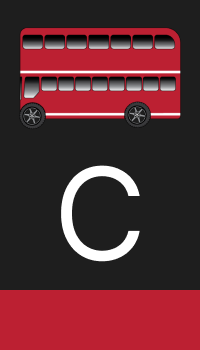
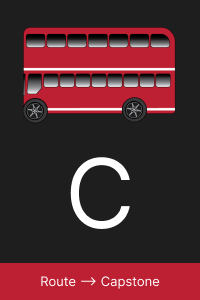
added card images for sunny

diff --git a/index.html b/index.html
@@ -19,23 +19,23 @@
         <header>
 
             <div class="wrap"><div class="move">
-                <div class="text">Elizabeth Hernandez Galvan &nbsp; &nbsp; &nbsp; &nbsp; &nbsp; &nbsp; &nbsp; &nbsp; &nbsp; &nbsp; &nbsp; &nbsp; DES 157B - Interactive Media III - Spring 2023</div>
-                <div class="text">Elizabeth Hernandez Galvan &nbsp; &nbsp; &nbsp; &nbsp; &nbsp; &nbsp; &nbsp; &nbsp; &nbsp; &nbsp; &nbsp; &nbsp; DES 157B - Interactive Media III - Spring 2023</div>
-                <div class="text">Elizabeth Hernandez Galvan &nbsp; &nbsp; &nbsp; &nbsp; &nbsp; &nbsp; &nbsp; &nbsp; &nbsp; &nbsp; &nbsp; &nbsp; DES 157B - Interactive Media III - Spring 2023</div>
-                <div class="text">Elizabeth Hernandez Galvan &nbsp; &nbsp; &nbsp; &nbsp; &nbsp; &nbsp; &nbsp; &nbsp; &nbsp; &nbsp; &nbsp; &nbsp; DES 157B - Interactive Media III - Spring 2023</div>
+                <div id="t1" class="text">Elizabeth Hernandez Galvan &nbsp; &nbsp; &nbsp; &nbsp; &nbsp; &nbsp; &nbsp; &nbsp; &nbsp; &nbsp; &nbsp; &nbsp; DES 157B - Interactive Media III - Spring 2023</div>
+                <div id="t2" class="text">Elizabeth Hernandez Galvan &nbsp; &nbsp; &nbsp; &nbsp; &nbsp; &nbsp; &nbsp; &nbsp; &nbsp; &nbsp; &nbsp; &nbsp; DES 157B - Interactive Media III - Spring 2023</div>
+                <div id="t3" class="text">Elizabeth Hernandez Galvan &nbsp; &nbsp; &nbsp; &nbsp; &nbsp; &nbsp; &nbsp; &nbsp; &nbsp; &nbsp; &nbsp; &nbsp; DES 157B - Interactive Media III - Spring 2023</div>
+                <div id="t4" class="text">Elizabeth Hernandez Galvan &nbsp; &nbsp; &nbsp; &nbsp; &nbsp; &nbsp; &nbsp; &nbsp; &nbsp; &nbsp; &nbsp; &nbsp; DES 157B - Interactive Media III - Spring 2023</div>
             </div></div>
 
             <!--this is for the interactive banner-->
             <div id="banner">
                 <!-- <h3>This is my banner!</h3> -->
                 <div class="rain"></div>
-                <div class="sunny">
+                <!-- <div class="sunny">
                     <div class="container">
                       <div class="sky"></div>
                       <div class="light"></div></div>
                       <div class="sun"></div>
                     </div>
-                <div>
+                <div> -->
             </div>
 
         </header>

diff --git a/script.js b/script.js
@@ -3,11 +3,12 @@
 
     const button = document.querySelector('button');
     const body = document.querySelector('body');
-    // const heading = document.querySelectorAll('h3');
     const banner = document.querySelector('#banner');
+    const t1 = document.getElementById("t1");
+    const t2 = document.getElementById("t2");
+    const t3 = document.getElementById("t3");
+    const t4 = document.getElementById("t4");
     const rain = document.querySelector('.rain');
-    const sun = document.querySelector('.sunny');
-    // const text = document.querySelectorAll('.text');
     const sections = document.querySelectorAll('section');
     let mode = 'winter';
 
@@ -16,9 +17,11 @@
             body.className = 'switch';
             banner.className = 'switch';
             button.className = 'switch';
-            // rain.classList.replace('rain' , 'sunny');
-            // banner.removeAttribute('sunny');
-            // sun.classList.replace('sunny' , 'rain');
+            t1.style.color = "black";
+            t2.style.color = "black";
+            t3.style.color = "black";
+            t4.style.color = "black";
+            rain.classList.replace('rain' , 'sunny');
             // heading.className = 'switch';
             for (const section of sections) {
                 section.className = 'switch';
@@ -28,9 +31,7 @@
             body.removeAttribute('class');
             banner.removeAttribute('class');
             button.removeAttribute('class');
-            // sun.classList.replace('rain' , 'sunny');
-            // banner.removeAttribute('rain');
-            // sun.classList.replace('sunny' , 'rain');
+            rain.classList.replace('sunny' , 'rain');
             for (const section of sections) {
                 section.removeAttribute('class');
             }

diff --git a/styles.css b/styles.css
@@ -37,12 +37,12 @@
 
 body {
     background-color: darkred;
-    color: rgb(235, 235, 235);
+    color: rgb(248, 224, 0);
     transition: all 2s;
 }
 
 body.switch {
-    background-color: rgb(126, 176, 245);
+    background-color: lightgoldenrodyellow;
     color: #333;
 }
 
@@ -80,7 +80,7 @@ header {
 }
 
 /*Sun Banner*/
- .sunny {
+ /* .sunny {
     background: lightblue;
     width: 1100px;
     height: 250px;
@@ -153,7 +153,18 @@ header {
       opacity: .2
     }
     ;
-  }
+  } */
+
+.sunny {
+    position: relative;
+    width: 1100px;
+    height: 250px;
+    background: url(images/sunBanner.gif);
+    background-repeat: no-repeat;
+    background-size: cover;
+    background-position: center;
+}
+
 /* Rain Banner */
  .rain {
     position: relative;
@@ -279,25 +290,25 @@ section.switch .card-back {
 }
 
 section.switch #busP {
-    background: url(https://www.firstbenefits.org/wp-content/uploads/2017/10/placeholder.png);
+    background: url(images/mBike.png);
     background-repeat: no-repeat;
     background-size: cover;
 }
 
 section.switch #busR {
-    background: url(https://www.firstbenefits.org/wp-content/uploads/2017/10/placeholder.png);
+    background: url(images/mBike-1.png);
     background-repeat: no-repeat;
     background-size: cover;
 }
 
 section.switch #busD {
-    background: url(https://www.firstbenefits.org/wp-content/uploads/2017/10/placeholder.png);
+    background: url(images/mBike-2.png);
     background-repeat: no-repeat;
     background-size: cover;
 }
 
 section.switch #busC {
-    background: url(https://www.firstbenefits.org/wp-content/uploads/2017/10/placeholder.png);
+    background: url(images/mBike-3.png);
     background-repeat: no-repeat;
     background-size: cover;
 }
